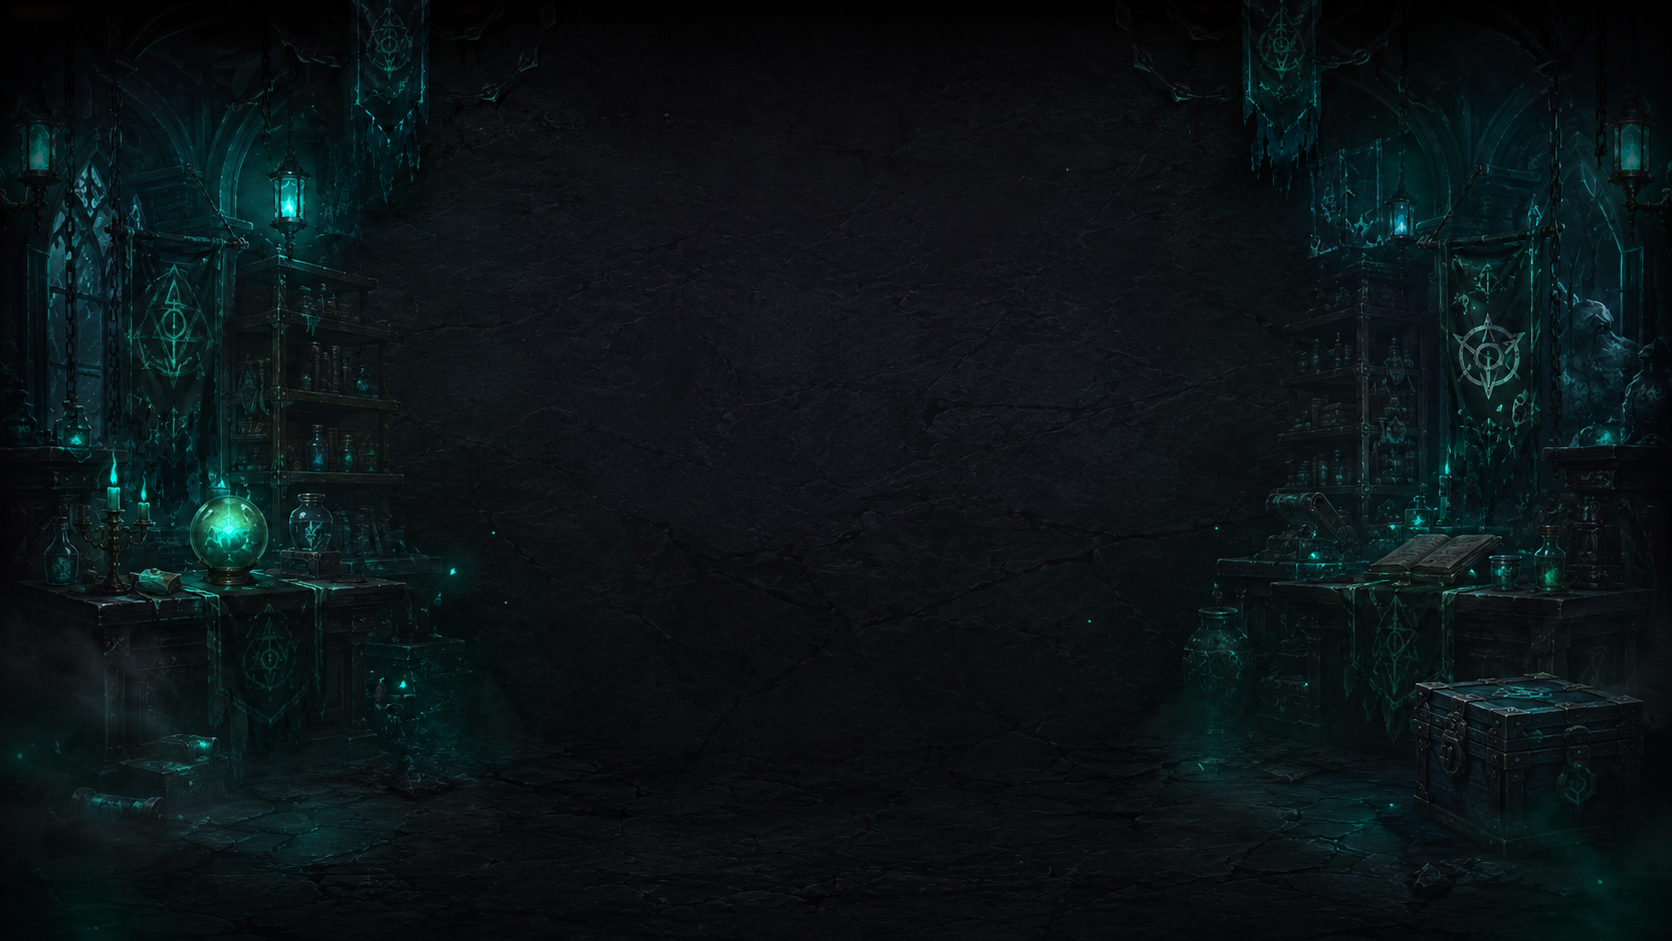
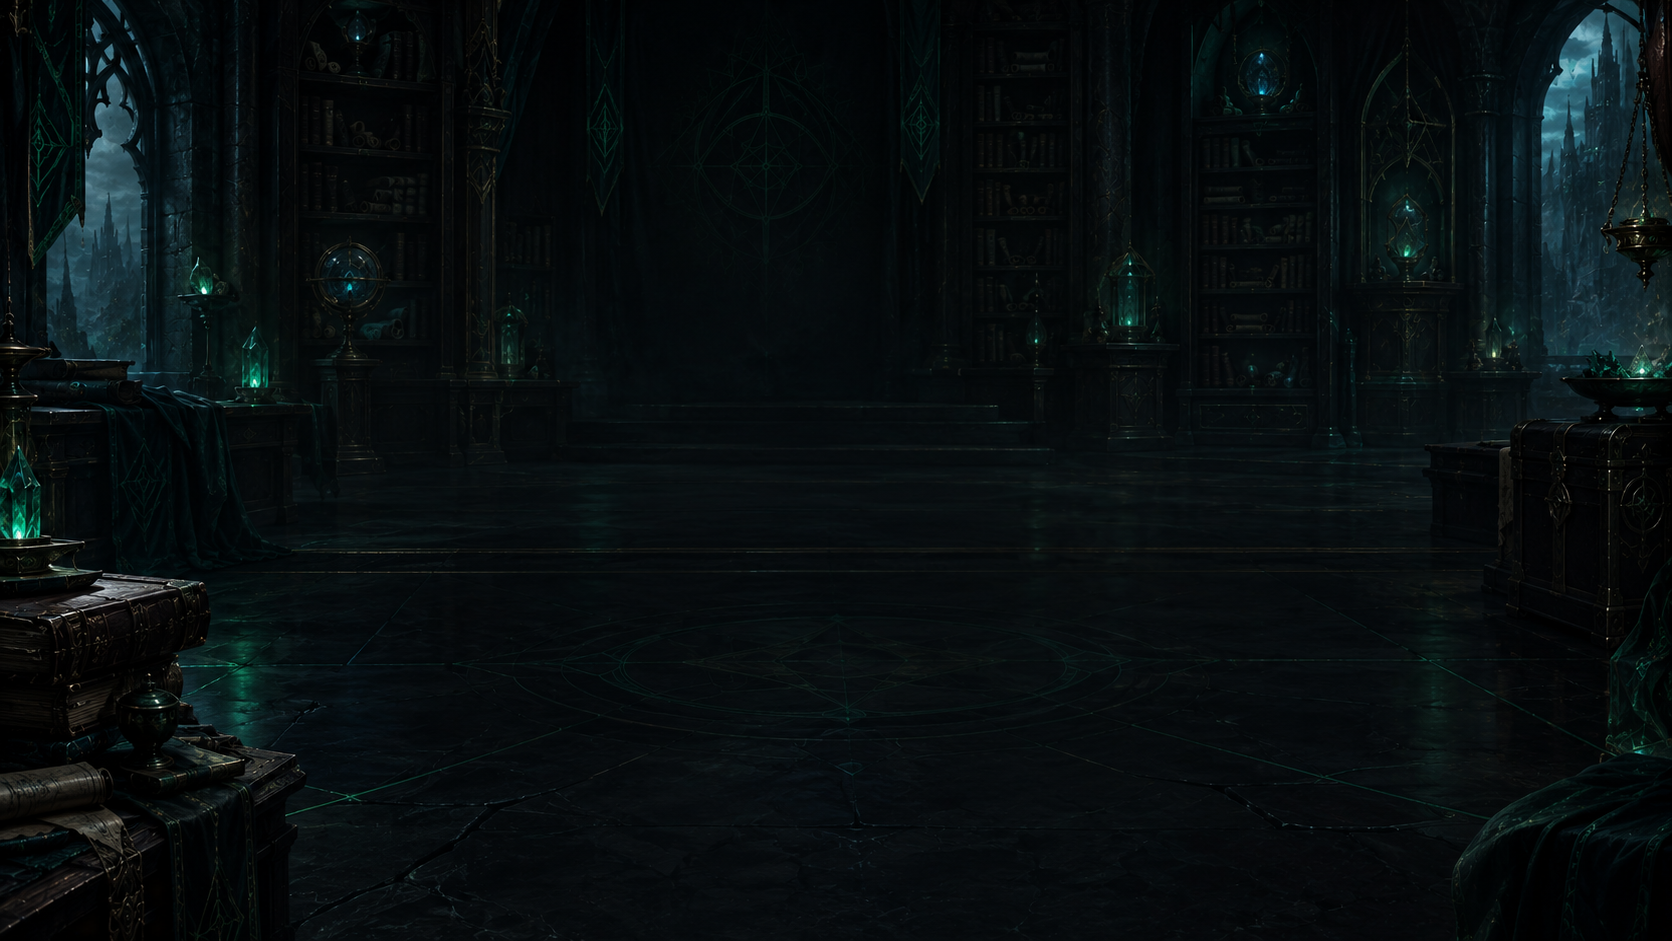
Updated images

diff --git a/src/screens/Campaign/CampaignMapScreen.tsx b/src/screens/Campaign/CampaignMapScreen.tsx
@@ -4,6 +4,7 @@ import {
     StyleSheet,
     Pressable,
     FlatList,
+    ScrollView,
     useWindowDimensions,
     Modal,
     Dimensions,
@@ -74,6 +75,7 @@ export const CampaignMapScreen: React.FC<Props> = ({ navigation }) => {
     });
 
     const [difficultyModalVisible, setDifficultyModalVisible] = useState(false);
+    const [pendingDifficulty, setPendingDifficulty] = useState<Difficulty>('medium');
     const [selectedStage, setSelectedStage] = useState<number | null>(null);
     const [stageModalVisible, setStageModalVisible] = useState(false);
     const [abandonModalVisible, setAbandonModalVisible] = useState(false);
@@ -328,6 +330,7 @@ export const CampaignMapScreen: React.FC<Props> = ({ navigation }) => {
 
                     <TouchableOpacity
                         onPress={() => {
+                            setPendingDifficulty(selectedDifficulty);
                             setDifficultyModalVisible(true);
                         }}
                         style={styles.headerPill}
@@ -359,43 +362,92 @@ export const CampaignMapScreen: React.FC<Props> = ({ navigation }) => {
                     exiting={FadeOut.duration(200)}
                     style={styles.modalBackdropWrapper}
                 >
-                    <BlurView intensity={30} tint="dark" style={styles.modalBackdrop}>
+                    <BlurView intensity={40} tint="dark" style={styles.modalBackdrop}>
                         <Pressable style={StyleSheet.absoluteFillObject} onPress={() => setDifficultyModalVisible(false)} />
                         <Animated.View
                             entering={FadeIn.duration(300)}
                             exiting={FadeOut.duration(200)}
-                            style={[styles.difficultyModalContainer, { width: screenWidth * 0.85, maxHeight: screenHeight * 0.7, borderWidth: 1, borderColor: 'rgba(16, 185, 129, 0.4)' }]}
+                            style={[styles.difficultyModalContainer, {
+                                width: Math.min(screenWidth - spacing.xl * 2, 440),
+                                maxHeight: screenHeight - insets.top - insets.bottom - spacing.xl * 2,
+                            }]}
                         >
-                            <ExpoLinearGradient colors={['rgba(30, 30, 60, 0.98)', 'rgba(10, 10, 20, 0.98)']} style={styles.difficultyGradient}>
-                                <Text style={styles.difficultyHeader}>{t('campaign.select_difficulty')}</Text>
-                                <View style={styles.difficultyList}>
-                                    {(['easy', 'medium', 'hard'] as Difficulty[]).map((diff) => {
-                                        const isActive = selectedDifficulty === diff;
-                                        return (
-                                            <TouchableOpacity
-                                                key={diff}
-                                                style={[
-                                                    styles.difficultyItem,
-                                                    isActive && styles.difficultyItemActive
-                                                ]}
-                                                onPress={() => {
-                                                    setDifficulty(diff);
-                                                    setDifficultyModalVisible(false);
-                                                }}
-                                                activeOpacity={0.7}
-                                            >
-                                                <View style={styles.difficultyIconWrapper}>
-                                                    {diff === 'easy' && <Ionicons name="leaf-outline" size={18} color={isActive ? colors.arcane.emerald : 'rgba(255,255,255,0.4)'} />}
-                                                    {diff === 'medium' && <MaterialCommunityIcons name="shield-outline" size={18} color={isActive ? colors.arcane.emerald : 'rgba(255,255,255,0.4)'} />}
-                                                    {diff === 'hard' && <MaterialCommunityIcons name="skull-outline" size={18} color={isActive ? colors.arcane.emerald : 'rgba(255,255,255,0.4)'} />}
-                                                </View>
-                                                <Text style={[styles.difficultyLabel, isActive && styles.difficultyLabelActive]}>
-                                                    {t(`campaign.difficulty.${diff}`)}
-                                                </Text>
-                                            </TouchableOpacity>
-                                        );
-                                    })}
+                            <ExpoLinearGradient colors={[colors.arcane.graphite, colors.arcane.obsidian]} style={styles.difficultyGradient}>
+                                <View style={styles.difficultyModalHeader}>
+                                    <View style={styles.difficultyHeading}>
+                                        <Text style={styles.difficultyHeader}>{t('campaign.select_difficulty')}</Text>
+                                        <Text style={styles.difficultySubtitle}>{t('campaign.difficulty_subtitle')}</Text>
+                                    </View>
+                                    <TouchableOpacity
+                                        onPress={() => setDifficultyModalVisible(false)}
+                                        style={styles.difficultyCloseButton}
+                                        accessibilityRole="button"
+                                        accessibilityLabel={t('campaign.close_difficulty')}
+                                        hitSlop={8}
+                                    >
+                                        <Ionicons name="close" size={22} color="rgba(255,255,255,0.7)" />
+                                    </TouchableOpacity>
                                 </View>
+                                <ScrollView
+                                    style={[styles.difficultyScroll, { maxHeight: screenHeight * 0.7 }]}
+                                    contentContainerStyle={styles.difficultyContent}
+                                    showsVerticalScrollIndicator={false}
+                                >
+                                    <View style={styles.difficultyList}>
+                                        {(['easy', 'medium', 'hard'] as Difficulty[]).map((diff) => {
+                                            const isActive = pendingDifficulty === diff;
+                                            const accentColor = diff === 'easy'
+                                                ? colors.arcane.emerald
+                                                : diff === 'medium'
+                                                    ? colors.arcane.cyan
+                                                    : colors.error;
+                                            return (
+                                                <TouchableOpacity
+                                                    key={diff}
+                                                    style={[
+                                                        styles.difficultyItem,
+                                                        isActive && { borderColor: accentColor, backgroundColor: `${accentColor}18` },
+                                                    ]}
+                                                    onPress={() => setPendingDifficulty(diff)}
+                                                    activeOpacity={0.7}
+                                                    accessibilityRole="radio"
+                                                    accessibilityState={{ checked: isActive }}
+                                                >
+                                                    <View style={styles.difficultyIconWrapper}>
+                                                        {diff === 'easy' && <Ionicons name="leaf-outline" size={20} color={accentColor} />}
+                                                        {diff === 'medium' && <MaterialCommunityIcons name="shield-outline" size={20} color={accentColor} />}
+                                                        {diff === 'hard' && <MaterialCommunityIcons name="skull-outline" size={20} color={accentColor} />}
+                                                    </View>
+                                                    {isActive && (
+                                                        <Ionicons name="checkmark-circle" size={16} color={accentColor} style={styles.difficultyItemCheck} />
+                                                    )}
+                                                    <Text style={[styles.difficultyLabel, isActive && styles.difficultyLabelActive]}>
+                                                        {t(`campaign.difficulty.${diff}`)}
+                                                    </Text>
+                                                </TouchableOpacity>
+                                            );
+                                        })}
+                                    </View>
+                                    <View style={styles.difficultyDescriptionPanel}>
+                                        <Text style={[styles.difficultyLabel, styles.difficultyDescriptionTitle]}>
+                                            {t(`campaign.difficulty.${pendingDifficulty}`)}
+                                        </Text>
+                                        <Text style={styles.difficultyDescription}>
+                                            {t(`campaign.difficulty.${pendingDifficulty}_description`)}
+                                        </Text>
+                                    </View>
+                                    <TouchableOpacity
+                                        style={styles.difficultyApplyButton}
+                                        onPress={() => {
+                                            setDifficulty(pendingDifficulty);
+                                            setDifficultyModalVisible(false);
+                                        }}
+                                        activeOpacity={0.8}
+                                        accessibilityRole="button"
+                                    >
+                                        <Text style={styles.difficultyApplyText}>{t('campaign.apply_difficulty')}</Text>
+                                    </TouchableOpacity>
+                                </ScrollView>
                             </ExpoLinearGradient>
                         </Animated.View>
                     </BlurView>
@@ -991,20 +1043,45 @@ const styles = StyleSheet.create({
         borderRadius: 24,
         overflow: 'hidden',
         borderWidth: 1,
-        borderColor: 'rgba(255,255,255,0.1)',
+        borderColor: 'rgba(16, 185, 129, 0.4)',
         ...shadows.lg,
     },
+    difficultyModalHeader: {
+        flexDirection: 'row',
+        alignItems: 'flex-start',
+        justifyContent: 'space-between',
+        width: '100%',
+        marginBottom: spacing.lg,
+        gap: spacing.md,
+    },
+    difficultyHeading: {
+        flex: 1,
+        gap: spacing.xs,
+    },
     difficultyHeader: {
-        fontSize: 16,
+        fontSize: 20,
         fontWeight: '900',
-        color: 'rgba(255,255,255,0.6)',
-        letterSpacing: 4,
-        marginBottom: spacing.xl,
+        color: colors.arcane.white,
+        letterSpacing: 2,
         fontFamily: 'serif',
+    },
+    difficultySubtitle: {
+        fontSize: 13,
+        lineHeight: 19,
+        color: 'rgba(255,255,255,0.62)',
+    },
+    difficultyCloseButton: {
+        width: 36,
+        height: 36,
+        borderRadius: 18,
+        alignItems: 'center',
+        justifyContent: 'center',
+        backgroundColor: 'rgba(255,255,255,0.08)',
     },
     difficultyGradient: {
         padding: spacing.xl,
         alignItems: 'center',
+        flexShrink: 1,
     },
     completedBadge: {
         position: 'absolute',
@@ -1014,10 +1091,18 @@ const styles = StyleSheet.create({
         borderRadius: 10,
         zIndex: 10,
     },
+    difficultyScroll: {
+        width: '100%',
+        flexShrink: 1,
+    },
+    difficultyContent: {
+        width: '100%',
+        gap: spacing.md,
+    },
     difficultyList: {
         flexDirection: 'row',
         width: '100%',
-        gap: spacing.md,
+        gap: spacing.xs,
     },
     relicTrayWrapper: {
         position: 'absolute',
@@ -1027,37 +1112,72 @@ const styles = StyleSheet.create({
     },
     difficultyItem: {
         flex: 1,
+        position: 'relative',
         flexDirection: 'column',
         alignItems: 'center',
-        backgroundColor: 'rgba(255,255,255,0.03)',
+        justifyContent: 'center',
+        backgroundColor: 'rgba(255,255,255,0.035)',
         paddingVertical: spacing.md,
         paddingHorizontal: spacing.xs,
-        borderRadius: 12,
+        borderRadius: 16,
         borderWidth: 1,
-        borderColor: 'rgba(255,255,255,0.05)',
-    },
-    difficultyItemActive: {
-        backgroundColor: 'rgba(16, 185, 129, 0.08)',
-        borderColor: colors.arcane.emerald,
+        borderColor: 'rgba(255,255,255,0.1)',
+        gap: spacing.sm,
     },
     difficultyIconWrapper: {
-        width: 28,
-        height: 28,
-        borderRadius: 14,
-        backgroundColor: 'rgba(255,255,255,0.03)',
+        width: 36,
+        height: 36,
+        borderRadius: 12,
+        backgroundColor: 'rgba(255,255,255,0.07)',
         justifyContent: 'center',
         alignItems: 'center',
-        marginBottom: spacing.xs,
+    },
+    difficultyItemCheck: {
+        position: 'absolute',
+        top: 5,
+        right: 5,
     },
     difficultyLabel: {
-        fontSize: 10,
+        fontSize: 12,
         fontWeight: '900',
-        color: 'rgba(255,255,255,0.5)',
-        letterSpacing: 1,
+        color: 'rgba(255,255,255,0.8)',
+        letterSpacing: 0.3,
         textAlign: 'center',
     },
     difficultyLabelActive: {
         color: colors.arcane.white,
+    },
+    difficultyDescription: {
+        fontSize: 12,
+        lineHeight: 17,
+        color: 'rgba(255,255,255,0.58)',
+    },
+    difficultyDescriptionPanel: {
+        width: '100%',
+        gap: spacing.xs,
+        padding: spacing.md,
+        borderRadius: 14,
+        backgroundColor: 'rgba(255,255,255,0.04)',
+        borderWidth: 1,
+        borderColor: 'rgba(255,255,255,0.08)',
+    },
+    difficultyDescriptionTitle: {
+        color: colors.arcane.white,
+        textAlign: 'left',
+    },
+    difficultyApplyButton: {
+        width: '100%',
+        minHeight: 48,
+        alignItems: 'center',
+        justifyContent: 'center',
+        borderRadius: 14,
+        backgroundColor: colors.arcane.emerald,
+    },
+    difficultyApplyText: {
+        color: colors.arcane.obsidian,
+        fontSize: 13,
+        fontWeight: '900',
+        letterSpacing: 1,
     },
     activeCheck: {
         marginLeft: spacing.sm,

diff --git a/src/screens/Campaign/LoreScreen.tsx b/src/screens/Campaign/LoreScreen.tsx
@@ -5,6 +5,7 @@ import {
     Pressable,
     ScrollView,
     FlatList,
+    ImageBackground,
 } from 'react-native';
 import { useSafeAreaInsets } from 'react-native-safe-area-context';
 import { StackNavigationProp } from '@react-navigation/stack';
@@ -68,16 +69,20 @@ export const LoreScreen: React.FC<Props> = ({ navigation }) => {
     const TABS_HEIGHT = 52;
 
     return (
-        <View style={styles.container}>
+        <ImageBackground
+            source={require('../../../assets/backgrounds/lore.png')}
+            style={styles.container}
+            resizeMode="cover"
+        >
             <LinearGradient
-                colors={[colors.arcane.obsidian, colors.arcane.void ?? '#050505']}
-                style={StyleSheet.absoluteFill}
+                colors={['rgba(11,15,20,0.72)', 'rgba(2,6,23,0.82)']}
+                style={[StyleSheet.absoluteFill, { zIndex: 0 }]}
             />
 
             {/* Biome tinted background accent */}
             <LinearGradient
                 colors={[`${selectedBiome.colors[0]}18`, 'transparent']}
-                style={[StyleSheet.absoluteFill, { bottom: '40%' }]}
+                style={[StyleSheet.absoluteFill, { bottom: '40%', zIndex: 0 }]}
             />
 
             {/* === SCROLL CONTENT === */}
@@ -225,7 +230,7 @@ export const LoreScreen: React.FC<Props> = ({ navigation }) => {
                     );
                 })}
             </ScrollView>
-        </View>
+        </ImageBackground>
     );
 };
 
